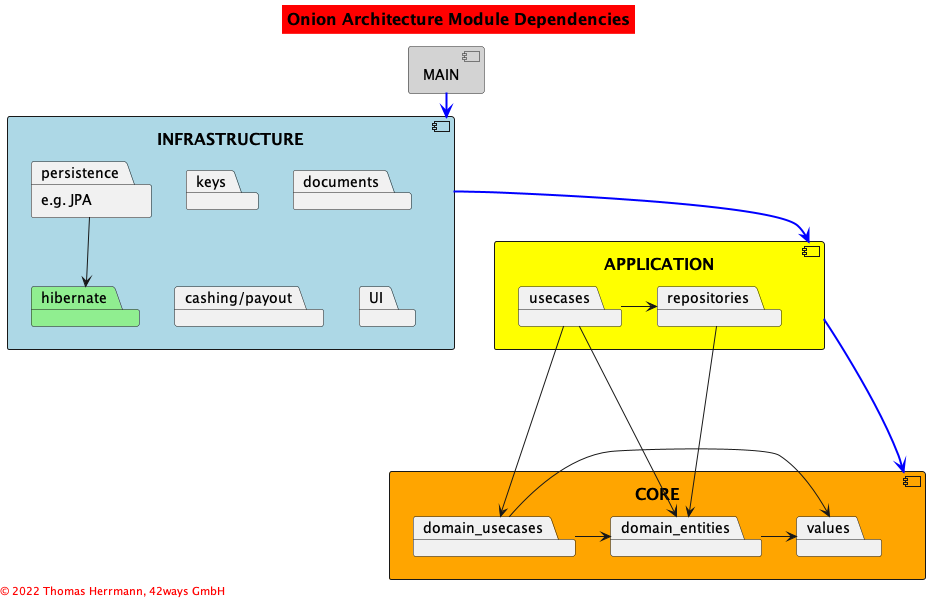
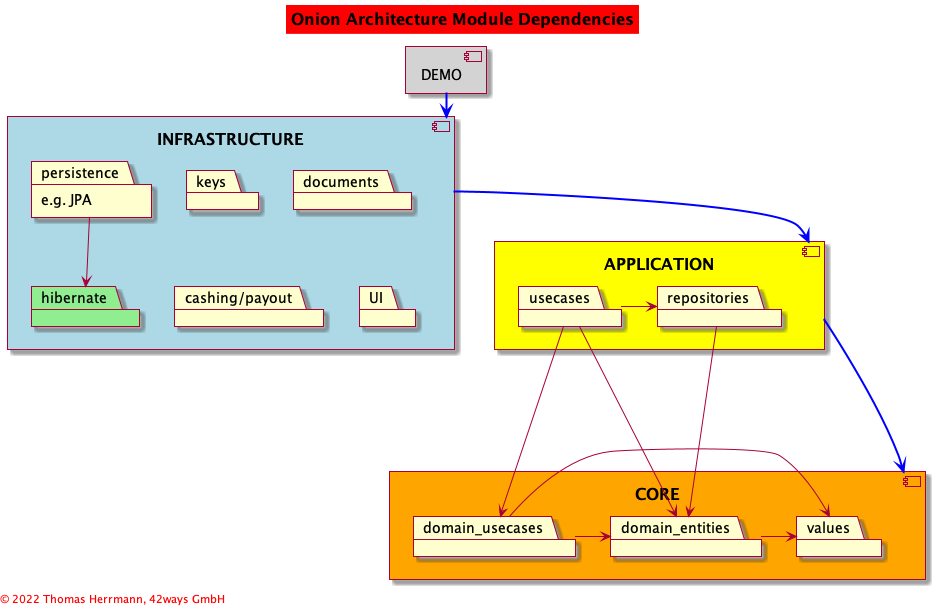
update module diagrams

diff --git a/README.md b/README.md
@@ -42,9 +42,9 @@ The project configuration is stored in `.idea`, configured via the gradle files.
 
 ## Usage
 
-The module `main` includes some demo programs that are available as Gradle tasks `runEnumDemo`,
+The module `demo` includes some demo programs that are available as Gradle tasks `runEnumDemo`,
 `runPersonDemo` and `runContractDemo`.
 
-The demo programs use a H2 database configured to use file based storage in `main/.h2` (see configuration file
+The demo programs use a H2 database configured to use file based storage in `demo/.h2` (see configuration file
 `infrastructure/src/main/resources/hibernate.cfg.xml`).
 
